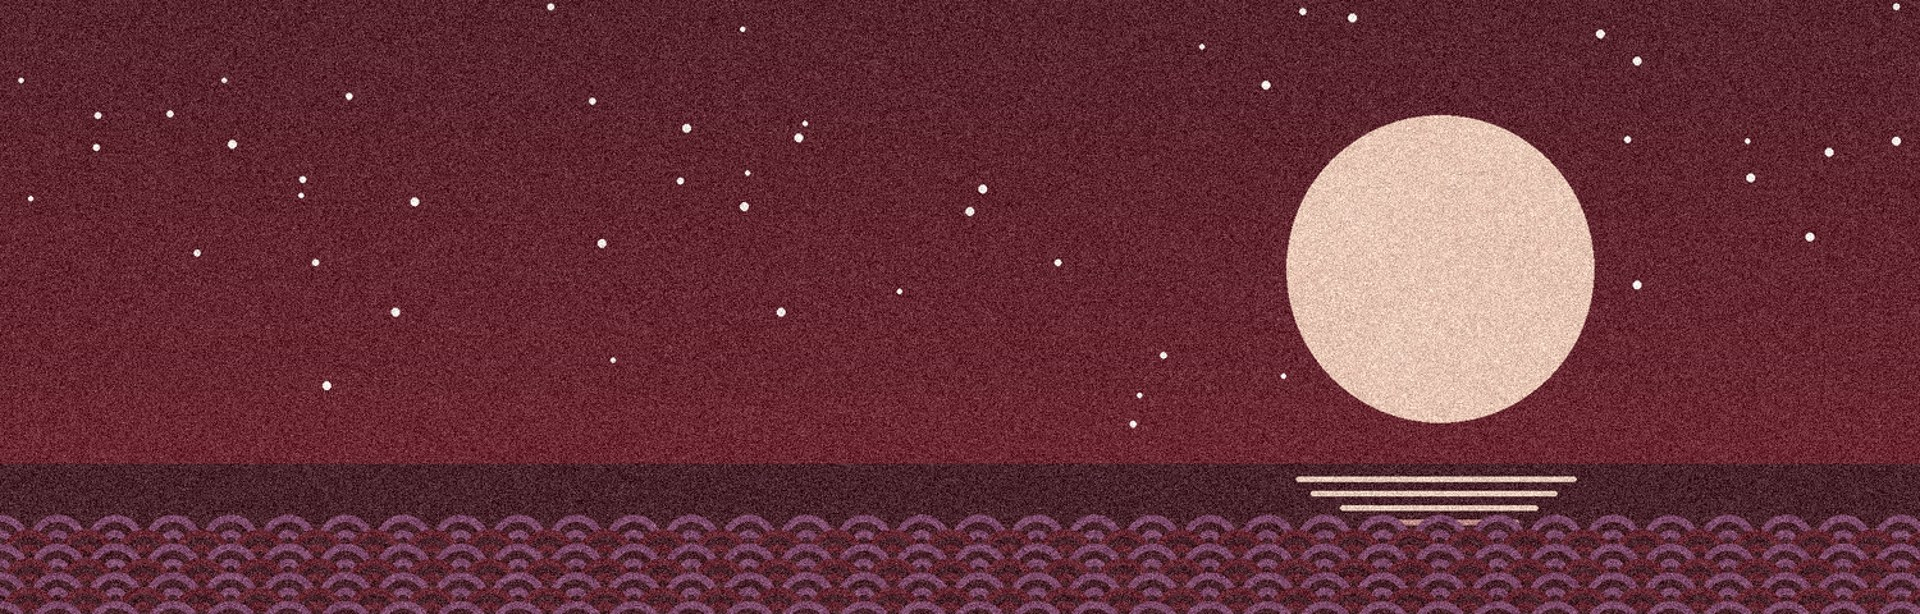
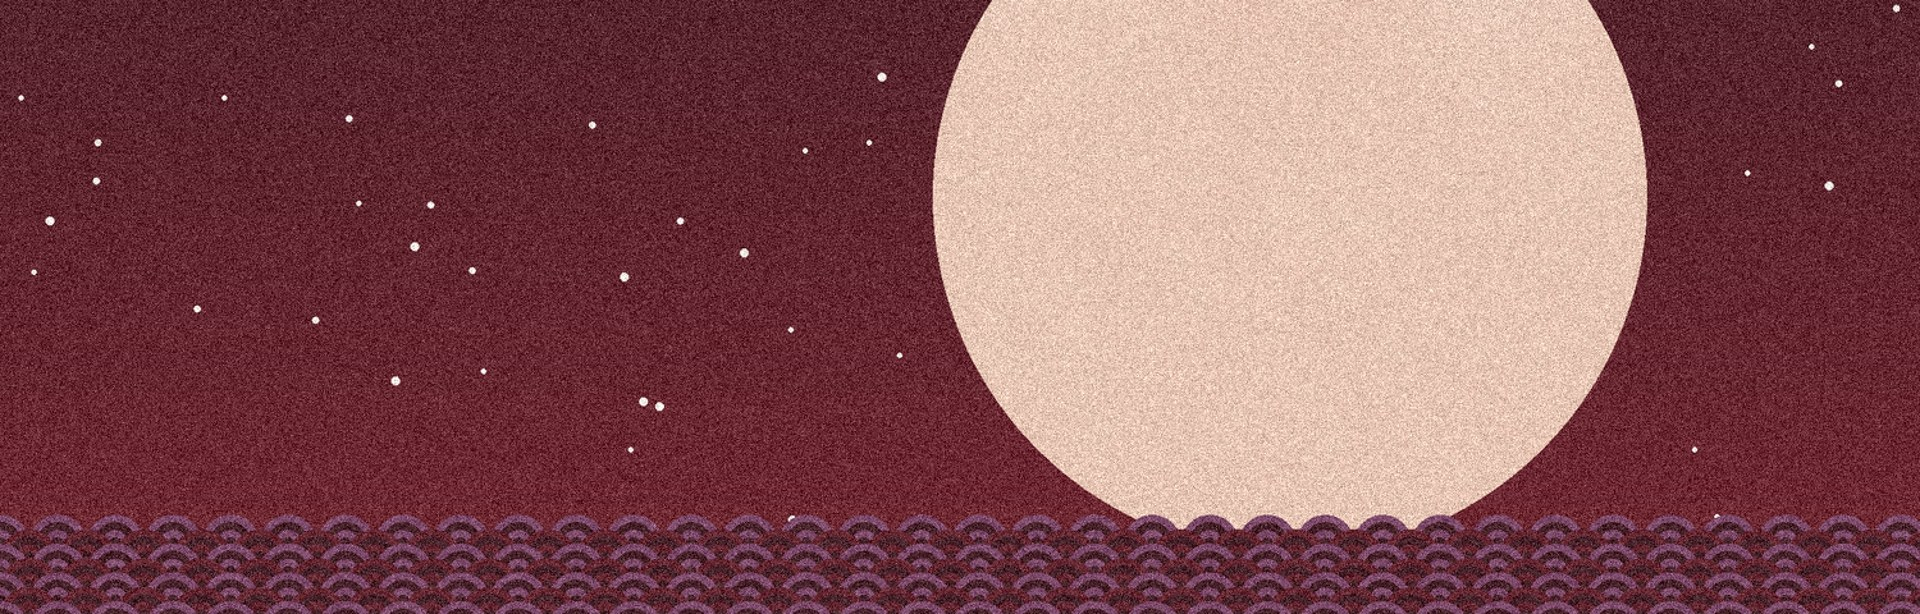
Signup option 9: original big moon, no water or reflection
Claude-Session: https://claude.ai/code/session_01CPFfiZz4rjPwAdTY8Ptavd

Changed region(s): [[0.0, 0.0, 1.0, 0.8664], [0.3125, 0.6498, 0.3438, 0.6808]]

diff --git a/art/blog/signup_bands_more.py b/art/blog/signup_bands_more.py
@@ -57,14 +57,19 @@ shore(im, sun, mixc(sun, c['wine'], 0.45), w0=150,
 stars(im, 18, 120, mixc(c['paper'], c['ochre'], 0.3), seed=8, avoid=(900, 290, 260))
 save(im, 'signup_ochre_dawn.jpg', 38)
 
-# 9 Moon shore
+# 9 Moon shore: the original band's big blush moon, placed and sized as it shows in option 6,
+# on option 2's wine night, with the wave-scale shore straight below (no water or reflection)
+MX, MY, MR = 806, 123, 223
 im = canvas(mixc(c['wine'], c['ink'], 0.55), mixc(c['wine'], c['ink'], 0.25), 1)
-stars(im, 60, 270, c['paper'], seed=22, avoid=(900, 168, 110))
-n = fbm(7)
+stars(im, 60, 330, c['paper'], seed=22, avoid=(MX, MY, MR + 10))
+rng9 = np.random.default_rng(7)
+def blur_noise9(r):
+    n = Image.fromarray((rng9.random((H, W)) * 255).astype('uint8')).filter(ImageFilter.GaussianBlur(r*S))
+    a = np.asarray(n, dtype=float); return (a - a.min()) / (a.max() - a.min() + 1e-6)
+n = 0.5*blur_noise9(31) + 0.3*blur_noise9(10) + 0.2*blur_noise9(3.4)   # same mottling scale as the original moon
 moon_mauve = np.array(hx('E3B9A6'), float); moon_paper = np.array(hx('F5EEE3'), float)
 tone = moon_mauve[None, None]*(1 - (n*0.6)[..., None]) + moon_paper[None, None]*(n*0.6)[..., None]
-mask = Image.new('L', (W, H), 0); ImageDraw.Draw(mask).ellipse([(900-96)*S, (168-96)*S, (900+96)*S, (168+96)*S], fill=255)
+mask = Image.new('L', (W, H), 0); ImageDraw.Draw(mask).ellipse([(MX-MR)*S, (MY-MR)*S, (MX+MR)*S, (MY+MR)*S], fill=255)
 im.paste(Image.fromarray(np.clip(tone, 0, 255).astype('uint8')), (0, 0), mask)
-blush = (229, 202, 186)
-shore(im, blush, mixc(blush, c['wine'], 0.4))
+seigaiha(im, 340, [c['plum'], mixc(c['wine'], c['ink'], 0.4)], r=18, line=mixc(c['wine'], c['ink'], 0.7))
 save(im, 'signup_moon_shore.jpg', 39)
